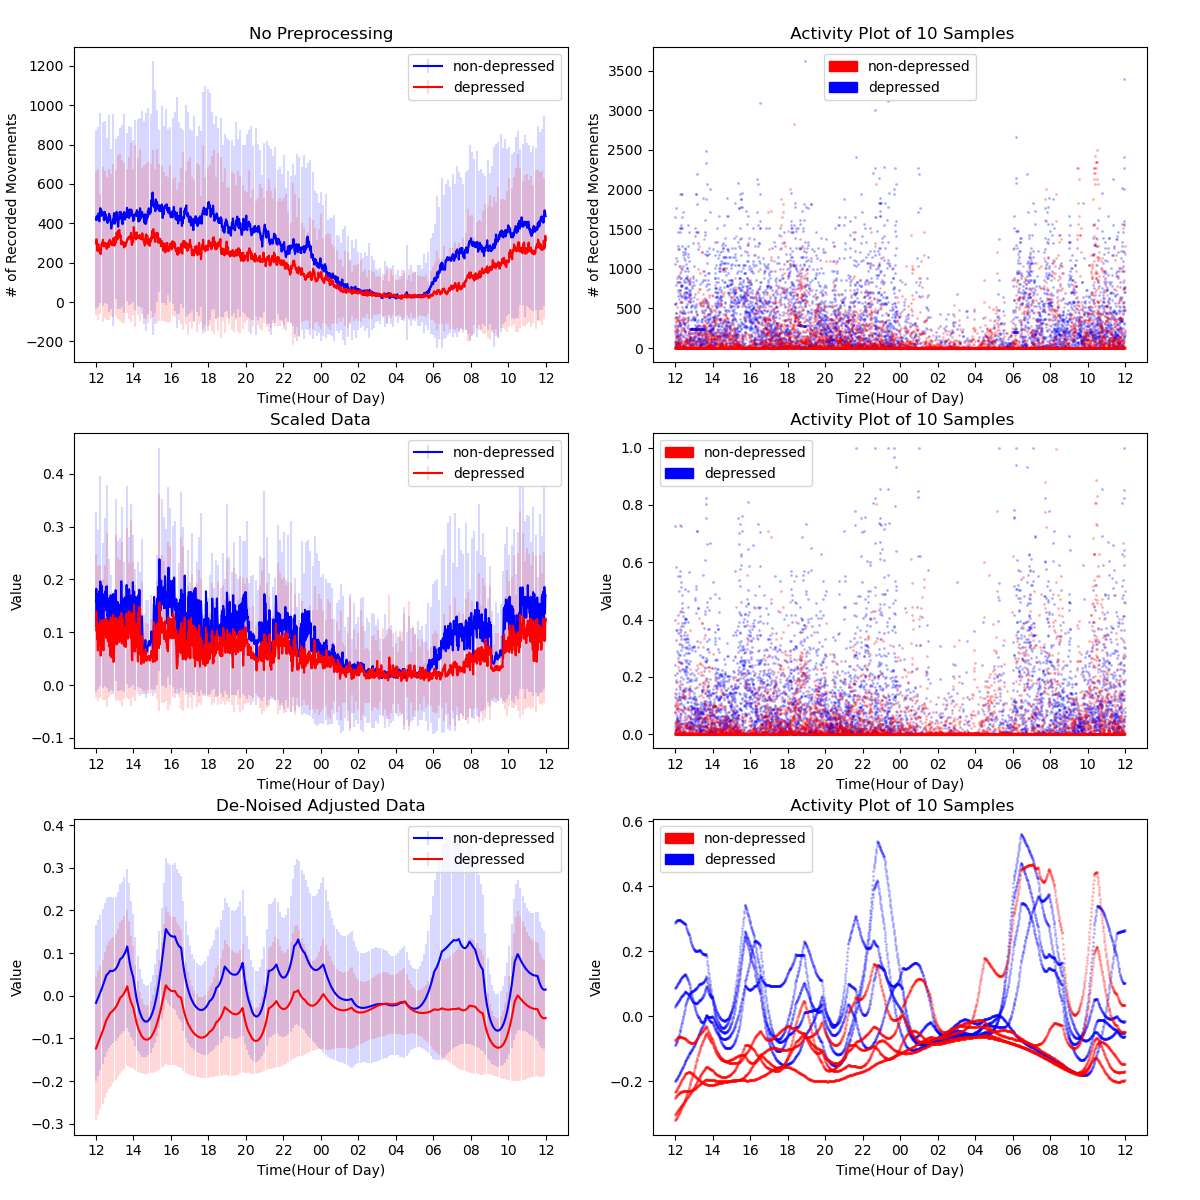
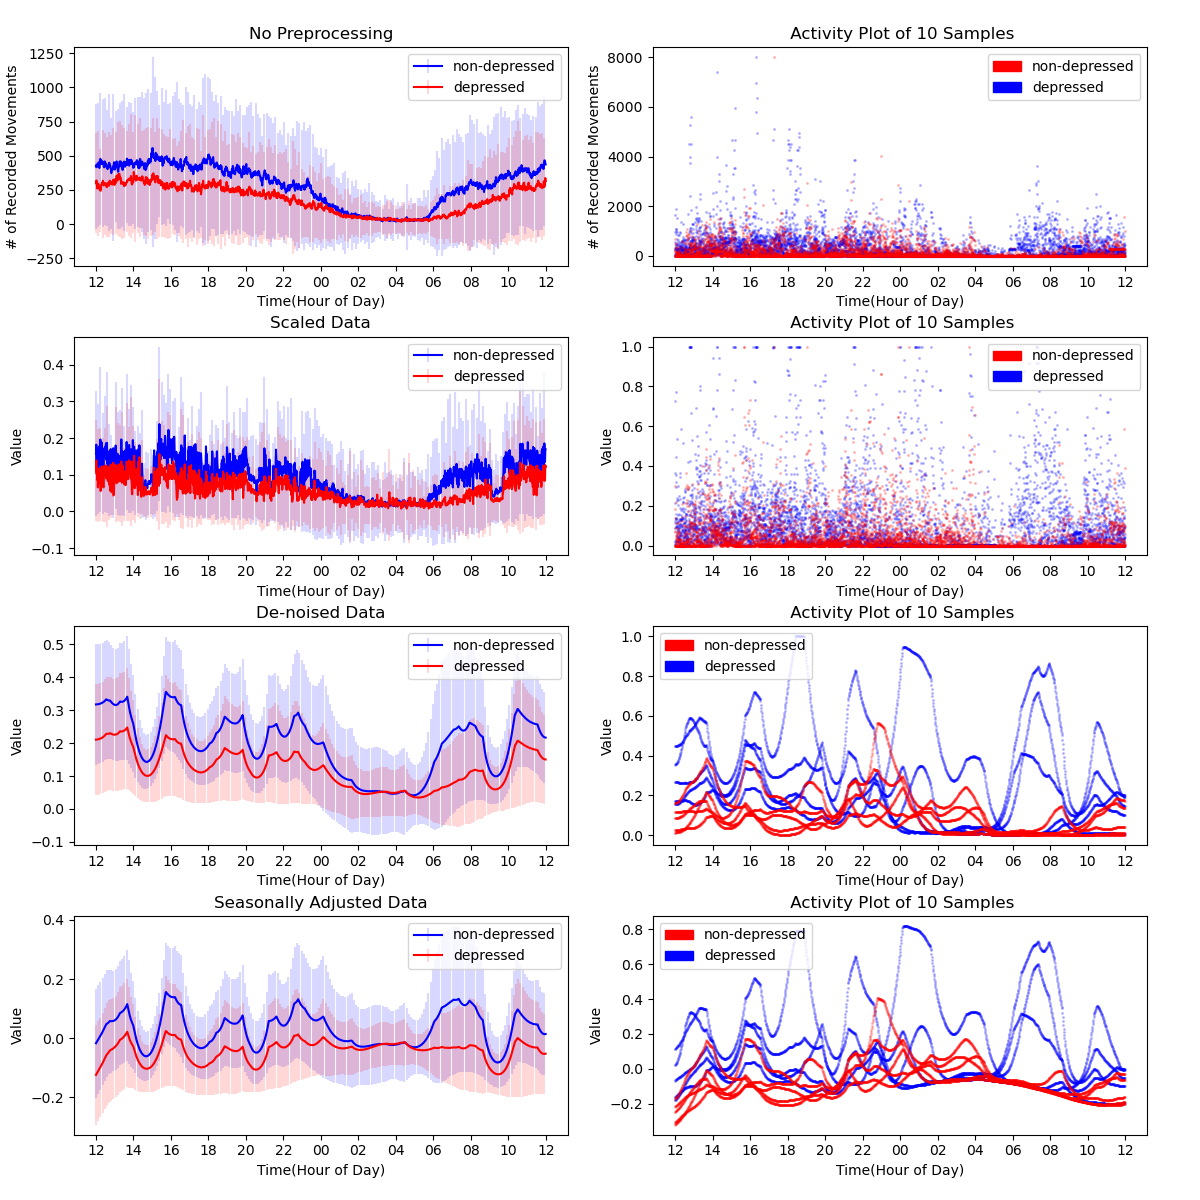
more tuning and model improvements

diff --git a/analysis.py b/analysis.py
@@ -92,7 +92,7 @@ data_control = data[data['label'] == 0].copy().drop(labels=['label'], axis=1)
 data_condition = data[data['label'] == 1].copy().drop(labels=['label'], axis=1)
 
 NUM_RANDOM = 5
-fig, ((ax1, ax2), (ax3, ax4), (ax5, ax6)) = plt.subplots(3, 2, figsize=(12,12))
+fig, ((ax1, ax2), (ax3, ax4), (ax5, ax6), (ax7, ax8)) = plt.subplots(4, 2, figsize=(12,12))
 fig.tight_layout(pad=3)
 data_mean_trend_plot(data_control=data_control, 
                      data_condition=data_condition, 
@@ -132,12 +132,11 @@ plot_random_samples(data_control,
                     ylabel='Value')
 
 preprocessing_settings = {
-    'resample' : True,
+    'resample' : False,
     'log_base' : None,
     'scale_range' : (0,1),
-    'use_standard' : True,
-    'use_gaussian' : 30,
-    'adjust_seasonality' : True,
+    'use_standard' : None,
+    'use_gaussian' : 30
 }
 (processed_data, _) = preprocess_train_test_dataframes(
     X_train=data.drop(labels=['label'], axis=1),
@@ -149,13 +148,40 @@ data_condition = processed_data[processed_data['label'] == 1].copy().drop(labels
 data_mean_trend_plot(data_control=data_control, 
                      data_condition=data_condition, 
                      stat='mean',
-                     title='De-Noised Adjusted Data',
+                     title='De-noised Data',
                      ax=ax5,
                      ylabel='Value')
 plot_random_samples(data_control, 
                     data_condition, 
                     n_random=NUM_RANDOM, 
                     ax=ax6,
+                    ylabel='Value')
+
+preprocessing_settings = {
+    'resample' : False,
+    'log_base' : None,
+    'scale_range' : (0,1),
+    'use_standard' : True,
+    'use_gaussian' : 30,
+    'adjust_seasonality' : True
+}
+(processed_data, _) = preprocess_train_test_dataframes(
+    X_train=data.drop(labels=['label'], axis=1),
+    settings=preprocessing_settings
+)
+processed_data['label'] = data['label']
+data_control = processed_data[processed_data['label'] == 0].copy().drop(labels=['label'], axis=1)
+data_condition = processed_data[processed_data['label'] == 1].copy().drop(labels=['label'], axis=1)
+data_mean_trend_plot(data_control=data_control, 
+                     data_condition=data_condition, 
+                     stat='mean',
+                     title='Seasonally Adjusted Data',
+                     ax=ax7,
+                     ylabel='Value')
+plot_random_samples(data_control, 
+                    data_condition, 
+                    n_random=NUM_RANDOM, 
+                    ax=ax8,
                     ylabel='Value')
 
 fig.savefig(os.path.join(DIR, "preprocessing.png"))

diff --git a/train_lstm_v2.py b/train_lstm_v2.py
@@ -36,7 +36,6 @@ preprocessing_settings = {
     'use_standard' : True,
     'use_gaussian' : 50,
     'adjust_seasonality' : False,
-    'window_size' : 30
 }
 feature_settings = {
     'use_feature' : True,
@@ -92,7 +91,7 @@ NUM_FEATURES = len(dataframes[0][0].columns)
 print("Evaluating model...")
 
 lstm_v2_results_list = []
-for i in tqdm(range(20), ncols=50):
+for i in tqdm(range(30), ncols=50):
     lstm_v2_results = run_lstm_feature(
         data=dataloaders,
         criterion=criterion,
@@ -104,12 +103,12 @@ for i in tqdm(range(20), ncols=50):
         out_shape=hyperparameter_settings['out_shape'],
         hidden_shape=hyperparameter_settings['hidden_shape'],
         lstm_layers=hyperparameter_settings['lstm_layers'],
-        window_size=preprocessing_settings['window_size']
+        window_size=feature_settings['window_size']
     )
     lstm_v2_results_list.append(lstm_v2_results)
     print(lstm_v2_results)
 metrics = combine_several_weighted_averages(lstm_v2_results_list)
-metrics.to_csv(os.path.join(RESULTS_DIR, "lstm_v2_20_metrics.csv"))
+metrics.to_csv(os.path.join(RESULTS_DIR, "lstm_v2_30_metrics.csv"))
 print(metrics)
 
 print("Done.")

diff --git a/results.py b/results.py
@@ -8,8 +8,6 @@ from core.eval import create_metrics_table, metric_class_averages
 def plot_metric(results:pd.DataFrame, metric:str, ax):
     metric_results = results[['name', metric]]
 
-
-
 RESULTS_DIR = 'results'
 FILENAME = "final_results.csv"
 
@@ -22,10 +20,11 @@ for filename in filenames:
         continue
     model_results = pd.read_csv(os.path.join(RESULTS_DIR, filename), index_col=0)
     model_results = metric_class_averages(model_results[model_results['note']=='wt_avg'])
-    print(model_results)
     results.append(model_results)
 
-# final_results = create_metrics_table(results)
-# final_results.to_csv(os.path.join(RESULTS_DIR, FILENAME))
-# print(final_results)
-#fig, ((ax1, ax2), (ax3, ax4)) = plt.subplots(figsize=(8,8))
+final_results = pd.concat(results)
+final_results = final_results.drop(labels=['sup', 'loss'], axis=1)
+final_results = final_results.map(lambda x : round(x,3) if isinstance(x,float) else x)
+final_results.to_csv(os.path.join(RESULTS_DIR, FILENAME))
+print(final_results)
+fig, ((ax1, ax2), (ax3, ax4)) = plt.subplots(figsize=(8,8))

diff --git a/train_conv_lstm.py b/train_conv_lstm.py
@@ -103,7 +103,7 @@ NUM_FEATURES = len(dataframes[0][0].columns)
 
 print("Evaluating model...")
 conv_lstm_results_list = []
-for i in tqdm(range(20), ncols=50):
+for i in tqdm(range(30), ncols=50):
     conv_lstm_results = run_conv_lstm(
         data=dataloaders,
         criterion=criterion,
@@ -119,7 +119,7 @@ for i in tqdm(range(20), ncols=50):
     conv_lstm_results_list.append(conv_lstm_results)
     print(conv_lstm_results)
 metrics = combine_several_weighted_averages(conv_lstm_results_list)
-metrics.to_csv(os.path.join(RESULTS_DIR, "conv_lstm_20_metrics.csv"))
+metrics.to_csv(os.path.join(RESULTS_DIR, "conv_lstm_30_metrics.csv"))
 print(metrics)
 
 print("Done.")

diff --git a/train_mlp.py b/train_mlp.py
@@ -33,15 +33,14 @@ preprocessing_settings = {
     'scale_range' : None,
     'use_standard' : True,
     'use_gaussian' : 30,
-    'window_size' : 30,
-    'batch_size' : 32
+    'adjust_seasonality' : True,
 }
 feature_settings = {
     'use_feature' : True,
     'long_feature' : True,
     'window_size' : 60,
-    'quarter_diff' : True,
-    'simple' : False
+    'quarter_diff' : False,
+    'simple' : True
 }
 hyperparameter_settings = {
     'learning_rate' : 0.0005,

diff --git a/core/eval.py b/core/eval.py
@@ -248,6 +248,7 @@ def metric_class_averages(metric_df : pd.DataFrame):
 
     # calculate weighted average
     metric_avg = metrics_new.apply(weighted_avg, axis=0, args=(support_ratio,))
+    metric_avg['note'] = 'wt_avg'
     metrics_new = pd.concat([metrics_new, pd.DataFrame(metric_avg).transpose()], axis=0)
     return metrics_new
     

diff --git a/train_cnn.py b/train_cnn.py
@@ -35,11 +35,7 @@ preprocessing_settings = {
     'adjust_seasonality' : True,
 }
 feature_settings = {
-    'use_feature' : False,
-    'long_feature' : True,
-    'window_size' : 30,
-    'quarter_diff' : False,
-    'simple' : True
+    'use_feature' : False
 }
 hyperparameter_settings = {
     'learning_rate' : 0.000005,
